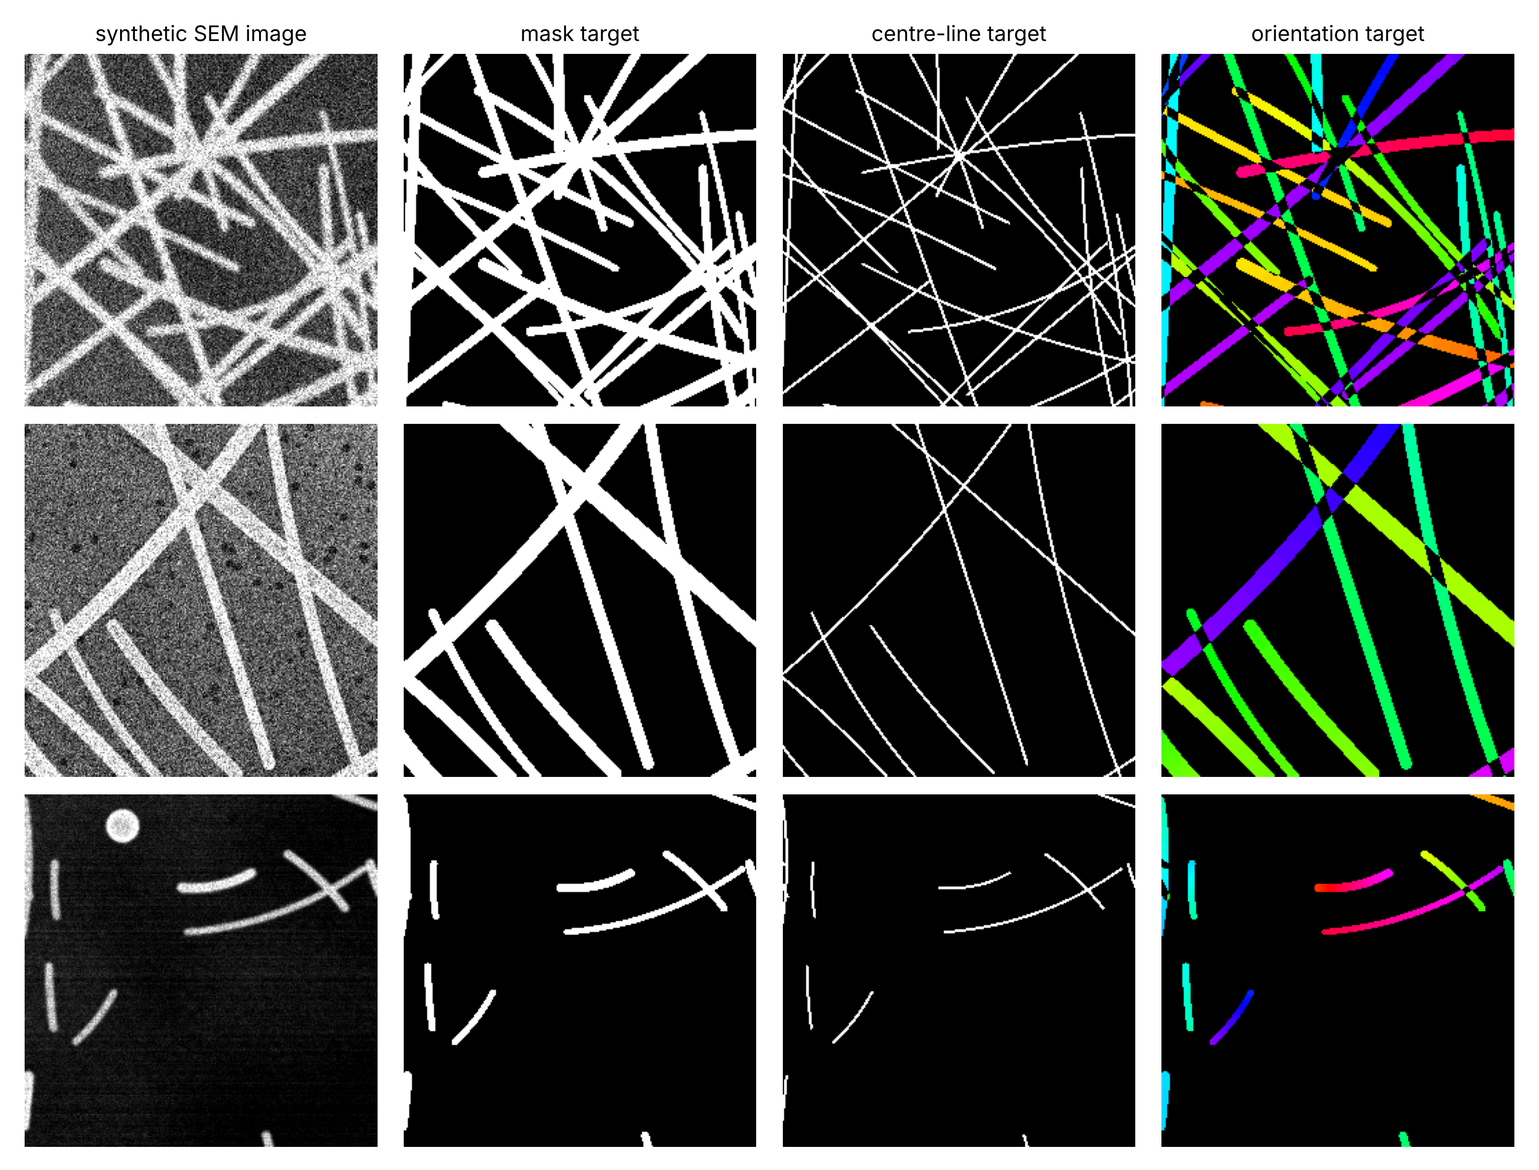
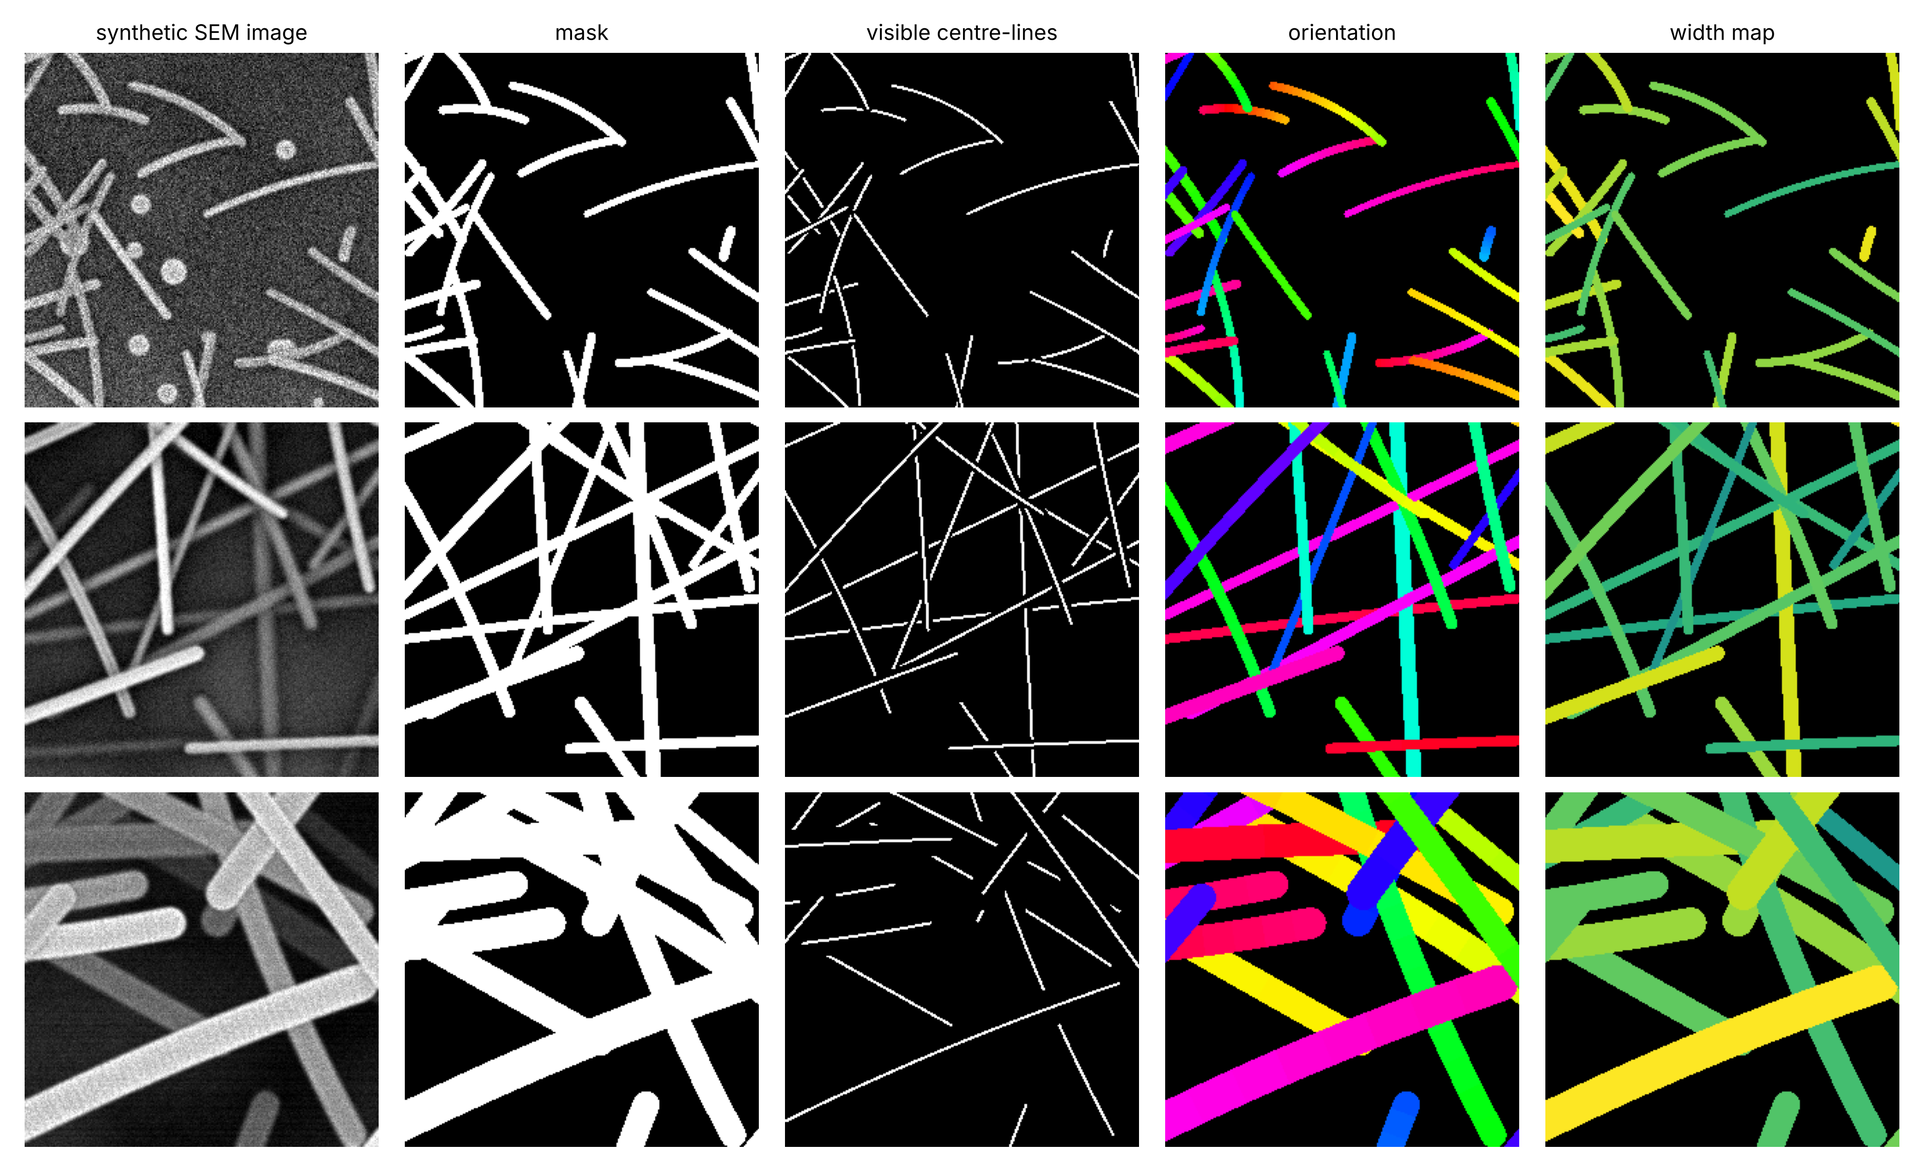
Docs: dense 3-D generator, visible labels, width head, transfer learning (methods)
Claude-Session: https://claude.ai/code/session_01L6QspYmMTroeA3VPAB4LZy

diff --git a/docs/AuNW_Analysis_Design.tex b/docs/AuNW_Analysis_Design.tex
@@ -30,7 +30,7 @@
 \begin{document}
 \maketitle
 \begin{abstract}
-This document explains every design decision of \emph{AuNW Analysis}. It covers the physically motivated generator of synthetic scanning-electron micrographs, the residual U-Net with three output heads (implemented in Keras\,3/TensorFlow), the training strategy against over-fitting, the graph algorithm that separates crossing wires, and the sub-pixel measurement of length and width. It also covers the statistics (including the edge correction for censored lengths), the validation methods and the fine-tuning with real SEM data. All equations correspond line by line to functions in the code; the relevant module is named in each section. The validation results, including failed design alternatives, are reported honestly so that you can judge the limits of the method.
+This document explains every design decision of \emph{AuNW Analysis}. It covers the physically motivated generator of synthetic scanning-electron micrographs, the residual U-Net with four output heads (implemented in Keras\,3/TensorFlow), the training strategy against over-fitting, the graph algorithm that separates crossing wires, and the sub-pixel measurement of length and width. It also covers the statistics (including the edge correction for censored lengths), the validation methods, the fine-tuning with real SEM data, and the second development stage that adapted the system to thick, three-dimensional meshes imaged with an in-lens detector (Section~\ref{sec:dense}). All equations correspond line by line to functions in the code; the relevant module is named in each section. The validation results, including failed design alternatives, are reported honestly so that you can judge the limits of the method.
 \end{abstract}
 \tableofcontents
 \newpage
@@ -122,6 +122,25 @@ I = \Bigl[\tfrac1N\,\mathrm{Poisson}\bigl(N\,(J*G_{\sigma_b})\bigr)+\varepsilon_
 \end{equation}
 where $G_{\sigma_b}$ is the probe point-spread function (Gaussian, $\sigma_b\in[0.4,1.4]$\,px). $N\in[15,250]$ is the electron dose per unit intensity, which gives a signal-to-noise ratio $\mathrm{SNR}=\sqrt{NJ}$. $\varepsilon_{\text{read}}$ is Gaussian read noise, $\eta_{\text{row}}$ a random offset per scan line, and $\gamma\in[0.8,1.25]$ a detector non-linearity. With probability 0.3 the image is JPEG re-compressed at quality 40--95, since colleagues often save micrographs as JPEG. Finally, the same robust normalisation as for real images is applied (Section~\ref{sec:io}).
 
+\subsection{Dense three-dimensional meshes (in-lens look)}\label{sec:dense3d}
+Real AuNW meshes are often thick, three-dimensional stacks imaged with an in-lens detector at low voltage (e.g.\ 1\,kV). Compared with wires on a substrate they differ in four ways, each modelled explicitly in the \code{dense3d} style (65\,\% of all training images):
+\begin{enumerate}[leftmargin=*,itemsep=1pt]
+\item \textbf{Depth.} Wires are distributed over $L\in[3,6]$ layers. Layer $l$ ($0$ = deepest) has brightness
+\begin{equation}
+b_l=b_{\text{top}}\Bigl[\delta+(1-\delta)\Bigl(\tfrac{l}{L-1}\Bigr)^{\gamma}\Bigr],\qquad \delta\in[0.25,0.6],
+\end{equation}
+because fewer secondary electrons escape from deeper in the stack. After each layer the image rendered so far is blurred with $G_{\sigma_l}$; since Gaussians compose, layer $l$ ends up blurred with $\sigma_{\text{eff},l}=(\sum_{k\ge l}\sigma_k^2)^{1/2}$. This is the limited depth of field. Optionally the deepest layer is an unlabelled ``texture'' of very blurred wires.
+\item \textbf{Shading.} Every wire darkens what lies below it by $1-h\,e^{-(d-R)/\lambda}$ next to its edge ($h$ up to 0.45).
+\item \textbf{Faceted ribbons.} Pentagonally twinned wires look like flat ribbons with longitudinal facets. With the signed lateral coordinate $n$, the profile is multiplied by $1+f\cos(2.4\,k(n)+\varphi)$, where $k(n)=\lfloor(n/w+\tfrac12)\,K\rfloor$ is the facet index ($K=2,3$). A dark outline $1-o\,e^{-((R-d)/0.9)^2}$ and fine transverse striations $1+a\sin(2\pi s/(\Lambda w)+\psi)$ along the arc length $s$ (period $\Lambda w$ with $\Lambda\in[0.08,0.3]$) complete the look.
+\item \textbf{Density, length and noise.} 3--9 wires per layer and $256^2$ tile, coverage typically 50--100\,\%, median length 150--900\,px (most wires cross the field), and long dwell times, i.e.\ low noise (log-uniform dose $N\in[30,1500]$).
+\end{enumerate}
+Figure~\ref{fig:dense} compares a real micrograph with synthetic images of this style.
+
+\begin{figure}[H]\centering
+\includegraphics[width=\linewidth]{figures/real_vs_synthetic.jpg}
+\caption{Left: real micrograph (in-lens, 1\,kV, 61\,kX). Right: synthetic \code{dense3d} images rendered by the generator at a similar wire width.}\label{fig:dense}
+\end{figure}
+
 \paragraph{Domain randomisation.} Every one of these parameters is drawn anew for every image. The network therefore sees a \emph{distribution} of imaging conditions that contains real microscopes as plausible samples, and it is forced to learn the invariant: the shape of a wire. Figure~\ref{fig:synth} shows examples with their labels.
 
 \begin{figure}[H]\centering
@@ -132,10 +151,10 @@ where $G_{\sigma_b}$ is the probe point-spread function (Gaussian, $\sigma_b\in[
 %==========================================================================
 \section{Learning targets and data pipeline}\label{sec:targets}
 %==========================================================================
-For every training tile three targets are stored (\code{dataset.py}):
+For every training tile four targets are stored (\code{dataset.py}). All of them describe what is \emph{visible}, i.e.\ the top-most wire at each pixel:
 \begin{description}[leftmargin=1.2em,itemsep=1pt]
 \item[Mask] $y_m(\mathbf x)=1$ if any wire covers $\mathbf x$ ($a\ge\tfrac12$).
-\item[Centre-line] $y_c(\mathbf x)=1$ if $d(\mathbf x)\le1$\,px for any wire, a 3-px wide line. At a crossing the two centre-lines cross cleanly, unlike the mask, where the wires merge into a blob.
+\item[Centre-line] $y_c(\mathbf x)=1$ if $d(\mathbf x)\le1$\,px for the \emph{visible} wire, a 3-px wide line. The upper wire of a crossing hides the centre-line of the lower one, whose centre-line is therefore interrupted; the measurement bridges such gaps (Section~\ref{sec:graph}). An earlier version also labelled the hidden parts. In thick meshes that asks the network for the impossible (centre-lines of wires buried under several others): it produced blurred maps, and even on \emph{perfect} labels the graph then recovered only 33\,\% of each wire as one piece, against 76\,\% with visible-only labels.
 \item[Orientation] The wire axis is an \emph{axial} quantity: $\theta$ and $\theta+\pi$ describe the same wire. Regressing $\theta$ directly would create an artificial discontinuity at $0^\circ/180^\circ$. We therefore use the double-angle representation
 \begin{equation}
 \mathbf o=(\cos2\theta,\sin2\theta)\in S^1,
@@ -144,7 +163,8 @@ which is continuous and unique for axial data. The prediction $\hat{\mathbf o}$ 
 \begin{equation}
 \|\mathbf o-\hat{\mathbf o}\|^2 = 2-2\cos 2\Delta\theta = 4\sin^2\Delta\theta \approx 4\Delta\theta^2 .
 \end{equation}
-At pixels covered by two wires the orientation is ambiguous, so a weight $\mu(\mathbf x)=0$ excludes them (and the background) from the loss.
+The orientation of the top-most wire is used; a weight $\mu(\mathbf x)=0$ excludes the background from the loss.
+\item[Width] $y_w(\mathbf x)=w$ of the top-most wire (in px), stored in steps of $\tfrac14$\,px. In a dense mesh the wire mask is one connected area, so the width cannot be read from mask edges: a cross-section of the mask runs straight into the touching neighbour. A per-pixel width map does not have this problem.
 \end{description}
 
 \paragraph{Label-consistent augmentation.} Random flips and $90^\circ$ rotations multiply the effective data by 8. They must be applied to the orientation \emph{vector}, not only to the pixel grid. A horizontal or vertical flip maps $\theta\mapsto-\theta \pmod\pi$, hence $(o_1,o_2)\mapsto(o_1,-o_2)$. A rotation by $90^\circ$ maps $\theta\mapsto\theta+\pi/2$, hence $2\theta\mapsto2\theta+\pi$ and $(o_1,o_2)\mapsto(-o_1,-o_2)$. These sign rules are implemented in \code{\_augment} and verified by a unit test that compares the transformed label with the principal axis of the transformed mask. Photometric augmentation (contrast, brightness, gamma, Gaussian noise) acts only on the input.
@@ -176,8 +196,8 @@ r = 1+\sum_{\ell=0}^{3}\bigl(4\cdot2^\ell+2^\ell\bigr)+4\cdot 16+\sum_{\ell=0}^{
 \end{equation}
 At the target wire width of about 9\,px (Section~\ref{sec:autoscale}), one output pixel therefore sees more than 20 wire widths. That is enough context to see both arms of a crossing and to decide which centre-line continues where.
 
-\paragraph{Three heads.} Three $1\times1$ convolutions on the last decoder features give
-$p_m=\sigma(\cdot)$, $p_c=\sigma(\cdot)$ and $\hat{\mathbf o}=\tanh(\cdot)\in(-1,1)^2$. The heads share all features (multi-task learning). The orientation task forces the shared features to encode direction, which also helps the centre-line head at crossings. The heads are computed in float32 even under mixed precision.
+\paragraph{Four heads.} Four $1\times1$ convolutions on the last decoder features give
+$p_m=\sigma(\cdot)$, $p_c=\sigma(\cdot)$, $\hat{\mathbf o}=\tanh(\cdot)\in(-1,1)^2$ and the width $\hat w=\operatorname{softplus}(\cdot)=\ln(1+e^{(\cdot)})>0$. The heads share all features (multi-task learning). The orientation task forces the shared features to encode direction, which also helps the centre-line head at crossings. The heads are computed in float32 even under mixed precision.
 
 \subsection{Loss functions}
 For a binary map with targets $y_i$ and predictions $p_i$ over the $N$ pixels of a tile,
@@ -189,7 +209,11 @@ and the mask and centre-line heads use $\mathcal L_{\text{BCE}}+\mathcal L_{\tex
 \begin{equation}
 \mathcal L_{\text{o}}=\frac{\sum_i\mu_i\,\|\mathbf o_i-\hat{\mathbf o}_i\|^2}{\sum_i\mu_i+1},
 \end{equation}
-and the total loss is $\mathcal L=\mathcal L_m+\mathcal L_c+0.5\,\mathcal L_o$. Monitored metrics are the hard Dice coefficient (F1 score) at threshold $0.5$ for mask and centre-line, and the mean axial angle error $\overline{\min(|\Delta\theta|,\pi-|\Delta\theta|)}$.
+the width loss is the weighted \emph{relative} error, which gives thin and thick wires equal importance,
+\begin{equation}
+\mathcal L_{\text{w}}=\frac{\sum_i m_i\,|\hat w_i-w_i|/\max(w_i,1)}{\sum_i m_i+1}\qquad(m_i=1\text{ on wire pixels}),
+\end{equation}
+and the total loss is $\mathcal L=\mathcal L_m+\mathcal L_c+0.5\,\mathcal L_o+0.5\,\mathcal L_w$. Monitored metrics are the hard Dice coefficient (F1 score) at threshold $0.5$ for mask and centre-line, and the mean axial angle error $\overline{\min(|\Delta\theta|,\pi-|\Delta\theta|)}$.
 
 %==========================================================================
 \section{Training and the control of over-fitting}\label{sec:training}
@@ -211,6 +235,8 @@ Over-fitting means that the training loss keeps decreasing while the loss on uns
 \item \textbf{Capacity regularisation}: decoupled weight decay, \code{SpatialDropout2D} (rate 0.15) in the two deepest levels and the bottleneck, where most parameters are, and BatchNorm. SpatialDropout drops whole feature maps rather than single activations, because neighbouring activations in a conv layer are strongly correlated and ordinary dropout would hardly regularise them.
 \item \textbf{Data augmentation} (Section~\ref{sec:targets}) and the practically unlimited synthetic data.
 \end{enumerate}
+
+\paragraph{Transfer learning.} When the architecture grows (as with the added width head), training does not start from random weights. All layers whose name and weight shapes agree are copied from the previous network (\code{transfer\_weights}), and only the new layers start from scratch. The dense-mesh network was obtained this way from the first network in two stages.
 
 \paragraph{Training as a separate process.} The GUI does not train inside its own process. It launches the same command a user could type (\code{python -m aunw.cli train \dots}) as a separate process, which writes its progress to \code{progress.json} and \code{preview.npz} in the model folder; the GUI only reads these files. A stop request is a file \code{STOP}, which the trainer checks after every batch, keeping the best weights. This design means that a crash in the numerical libraries can never take down the user interface (an early threaded version did exactly that inside the web server). It also means that training continues when the browser is closed, and that every GUI run is reproducible from the command shown on screen.
 
@@ -268,10 +294,10 @@ For every branch end inside junction $j$ we compute an outward unit vector $\mat
 \end{align}
 The tolerance grows with the gap because a direction error $\epsilon$ produces a lateral offset $\approx\epsilon|\mathbf r|$. Candidates are accepted greedily in order of increasing cost $c_{ab}=\delta_{ab}/\delta_{\max}+\ell_{ab}/\tau$, with every end used at most once and no cycles. Accepted pairs are merged with a union--find structure; each resulting set of branches is one wire. The tolerance model was not guessed. It was chosen from logged statistics of true and false pairs on ground-truth maps: true continuations have a median lateral offset of 0.9\,px, false pairs 9\,px, and the fixed 2-px tolerance used initially rejected 22\,\% of true pairs.
 
-\paragraph{Gap bridging.} Where two wires cross, the centre-line of the \emph{lower} wire can be interrupted, because the upper wire hides it. Its skeleton then ends in two facing free tips instead of a junction. Two free tips are therefore also linked when they are at most $2.5w+3$\,px apart (candidates from a $k$-d tree), satisfy the same deflection and collinearity criteria, point towards each other ($\mathbf u_a\cdot\mathbf r>0$), and the straight segment between them lies entirely inside the wire mask ($\min p_m>\tfrac12$ along it), i.e.\ the wire visibly continues underneath.
+\paragraph{Gap bridging.} Where two wires cross, the centre-line of the \emph{lower} wire can be interrupted, because the upper wire hides it. Its skeleton then ends in two facing free tips instead of a junction. Two free tips are therefore also linked when they are at most $4w+3$\,px apart (a crossing wire of width $w$ at angles down to about $30^\circ$) (candidates from a $k$-d tree), satisfy the same deflection and collinearity criteria, point towards each other ($\mathbf u_a\cdot\mathbf r>0$), and the straight segment between them lies entirely inside the wire mask ($\min p_m>\tfrac12$ along it), i.e.\ the wire visibly continues underneath.
 
 \subsection{End classification and the ``complete'' flag}
-Every unpaired end is classified as a \emph{tip} (a free end not at the border), a \emph{T-end} (the only unpaired end in its junction: all other arms continue, so the wire ends on top of another wire), \emph{unresolved} (unpaired in a junction with other unpaired ends), or \emph{border}. A wire is \textbf{complete} if both ends are tips and it does not touch the border. Only then is its length fully observed. On ground truth, complete wires had a gross length error ($<-10\,\%$) in only $0.5\,\%$ of cases, against 26\,\% for wires with one T-end and 62\,\% with two. Length statistics therefore use complete wires; width statistics use all wires, because truncation does not affect width.
+Every unpaired end is classified as a \emph{tip} (a free end, not at the border, at which the wire mask ends as well), a \emph{T-end} (the only unpaired end in its junction: all other arms continue, so the wire ends on top of another wire), \emph{unresolved} (unpaired in a junction with other unpaired ends), or \emph{border}. A wire is \textbf{complete} if both ends are tips and it does not touch the border. Only then is its length fully observed. On ground truth, complete wires had a gross length error ($<-10\,\%$) in only $0.5\,\%$ of cases, against 26\,\% for wires with one T-end and 62\,\% with two. Length statistics therefore use complete wires; width statistics use all wires, because truncation does not affect width.
 
 %==========================================================================
 \section{Measurement}\label{sec:measure}
@@ -287,12 +313,14 @@ which over-estimates $L$ by up to $\sqrt{4-2\sqrt2}-1=8.2\,\%$ at $\varphi=22.5^
 \end{equation}
 The wire length is the sum of its branch lengths, the bridged junction gaps $|\mathbf r_{ab}|$, and end corrections. Each free end adds $w/2$, because the centre-line stops at the centre of the hemispherical cap, cf.\ Eq.~\eqref{eq:capsule}. An end inside a junction adds the distance to the junction centre, bounded by $r_j+w$.
 
-\subsection{Width with sub-pixel precision}
-At every second centre-line pixel, at least one width away from tips and junctions, the mask probability is sampled along the local normal $\mathbf n$ (bilinear interpolation, step $\Delta t=0.25$\,px): $p(t)=p_m(\mathbf x+t\mathbf n)$. The edges are the first samples with $p\le\tfrac12$ on either side, refined by linear interpolation:
+\subsection{Width}
+\paragraph{Primary: width map.} The width of a wire is the median of the predicted width map $\hat w$ along its centre-line, excluding junction neighbourhoods. Away from crossings the top-most wire at a centre-line pixel is the wire itself, so $\hat w$ there is its own width, even if neighbours touch it. A unit test checks two touching parallel wires, for which the edge-profile method below measures the double width.
+
+\paragraph{Cross-check: sub-pixel edge profiles.} At every second centre-line pixel, at least one width away from tips and junctions, the mask probability is sampled along the local normal $\mathbf n$ (bilinear interpolation, step $\Delta t=0.25$\,px): $p(t)=p_m(\mathbf x+t\mathbf n)$. The edges are the first samples with $p\le\tfrac12$ on either side, refined by linear interpolation:
 \begin{equation}
 t_{\text{edge}}=t_{k-1}+\frac{p_{k-1}-\tfrac12}{p_{k-1}-p_k}\,\Delta t,\qquad w_i=t_{\text{edge}}^{+}+t_{\text{edge}}^{-}.
 \end{equation}
-The $\tfrac12$ level is the natural edge criterion: a step edge convolved with any symmetric point-spread function crosses $\tfrac12$ exactly at the true edge, and a calibrated posterior equals $\tfrac12$ at the decision boundary. The wire width is the \emph{median} of all $w_i$, which is robust to the outliers caused by touching neighbours and particles. If fewer than 3 profiles are valid, the distance-transform estimate $2\,\mathrm{EDT}-1$ is used.
+The $\tfrac12$ level is the natural edge criterion: a step edge convolved with any symmetric point-spread function crosses $\tfrac12$ exactly at the true edge, and a calibrated posterior equals $\tfrac12$ at the decision boundary. The wire width is the \emph{median} of all $w_i$, which is robust to the outliers caused by touching neighbours and particles. If fewer than 3 profiles are valid, the distance-transform estimate $2\,\mathrm{EDT}-1$ is used. This value is exported as \code{width\_profile\_px}; it is exact for isolated wires.
 
 %==========================================================================
 \section{Statistics}\label{sec:stats}
@@ -369,7 +397,7 @@ Per image: $|$bias$|$ of median width & 2.5\,\% & 3.3\,\% & 1.2\,\% \\\bottomrul
 
 \paragraph{Interpretation.} Individual wires are measured essentially without bias: median errors are below 1\,\% for both length and width. At moderate density, the per-image deviations of the median length (typically 4\,\%, at most 14\,\%) are consistent with pure sampling noise. With $n\approx20$ complete wires from a log-normal population with $\sigma\approx0.45$, the standard error of the median is $\approx1.25\,\sigma/\sqrt n\approx12\,\%$. This is why the software always reports bootstrap confidence intervals, and why several images per sample should be analysed.
 
-\paragraph{The physical limit: dense meshes.} Above roughly 40\,\% areal coverage most wire ends lie underneath other wires and cannot be observed, by this software or by a human. Complete wires then become rare (fewer than 35 in a $768^2$ image) and preferentially short, because a long wire crosses more wires and is more likely to lose an end ($P(\text{complete})\propto p^{k}$ for $k$ crossings resolved with probability $p$). The stereological estimator also degrades, because hidden ends are not counted. The width remains reliable at all densities (per-image bias $\le5\,\%$ up to 80\,\% coverage). The software therefore reports the coverage and a reliability class for every image (Section~\ref{sec:stats}). For length measurements on dense meshes, image regions of lower density or higher magnification should be used.
+\paragraph{The physical limit: dense meshes.} Above roughly 40\,\% areal coverage most wire ends lie underneath other wires and cannot be observed, by this software or by a human. Complete wires then become rare (fewer than 35 in a $768^2$ image) and preferentially short, because a long wire crosses more wires and is more likely to lose an end ($P(\text{complete})\propto p^{k}$ for $k$ crossings resolved with probability $p$). The stereological estimator also degrades, because hidden ends are not counted. The width remains reliable at all densities (per-image bias $\le5\,\%$ up to 80\,\% coverage). The software therefore reports the coverage and a reliability class for every image (Section~\ref{sec:stats}). For length measurements on dense meshes, use images at \emph{lower} magnification, in which whole wires are visible, and keep the high-magnification images for the width.
 
 \paragraph{Design alternatives that were tested and rejected.} Reporting these is part of good scientific practice:
 \begin{itemize}[leftmargin=*,itemsep=1pt]
